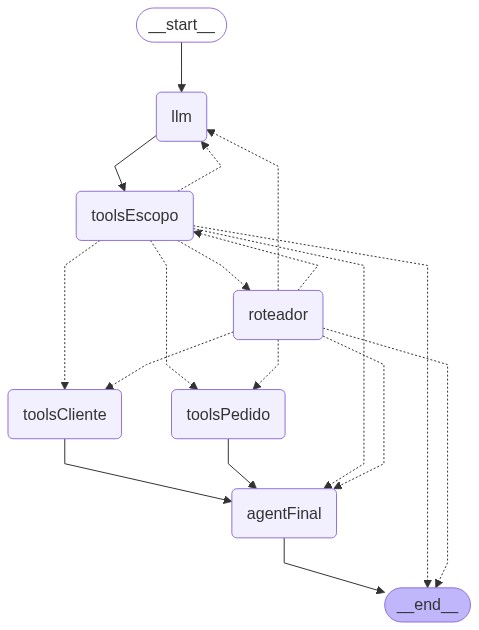
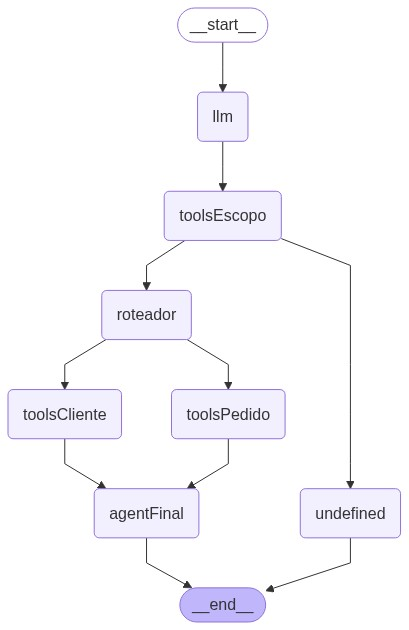
primeiro commit

diff --git a/src/agentEscopo.ts b/src/agentEscopo.ts
@@ -19,9 +19,9 @@ const identificaEscopoTool = tool(
   },
   {
     name: "identifica_escopo",
-    description: "Detecta se o escopo é sobre cliente ou pedido, qual quer coisa diferente disso não é suportado.",
+    description: `Detecta se o escopo é sobre cliente ou pedido, qual quer coisa diferente retorno o escopo como "undefined".`,
     schema: z.object({
-      escopo: z.enum(["pedido", "cliente"]),
+      escopo: z.enum(["pedido", "cliente", "undefined"]).default("undefined"),
     }),
   }
 );
@@ -96,30 +96,41 @@ const buscarClienteTool = tool(
       console.log("\nAGENTE FINAL -->", message);
       return { messages: [new AIMessage(`${lastMessage.content.toString()} `)] };
     })
+    .addNode("undefined", async (state) => {
+      const lastMessage = state.messages[state.messages.length - 1];
+      const message = lastMessage?.content?.toString().toLowerCase();
+      console.log("\nROTEADOR -->", message);
+      console.log("\n undefined -->", message);
+      return { messages: [new AIMessage(`não posso te da um retorno sobre esse assunto`)] };
+    })
 
     .addEdge("__start__", "llm")
     .addEdge("llm", "toolsEscopo")
-    .addConditionalEdges("toolsEscopo", (state) => {
-      const lastMessage = state.messages[state.messages.length - 1];
-      const message = lastMessage?.content?.toString().toLowerCase();
-      let next = "roteador";
-      if (!listaEscopo.find((escopo) => message.toLocaleLowerCase() === escopo.toLocaleLowerCase())) {
-        next = "agentFinal";
-      }
-      console.log("\nTOOLSESCOPO -->", next);
-      return next;
-    })
-
+    .addEdge("toolsEscopo", "roteador")
+    .addEdge("toolsEscopo", "undefined")
+    // .addConditionalEdges("toolsEscopo", (state) => {
+    //   const lastMessage = state.messages[state.messages.length - 1];
+    //   const message = lastMessage?.content?.toString().toLowerCase();
+    //   let next = "roteador";
+    //   if (!listaEscopo.find((escopo) => message.toLocaleLowerCase() === escopo.toLocaleLowerCase())) {
+    //     next = "agentFinal";
+    //   }
+    //   console.log("\nTOOLSESCOPO -->", next);
+    //   return next;
+    // })
+    .addEdge("roteador", "toolsPedido")
+    .addEdge("roteador", "toolsCliente")
     .addEdge("toolsPedido", "agentFinal")
     .addEdge("toolsCliente", "agentFinal")
+    .addEdge("undefined", "__end__")
 
-    .addConditionalEdges("roteador", (state) => {
-      const lastMessage = state.messages[state.messages.length - 1];
-      const message = lastMessage?.content?.toString().toLowerCase();
-      if (message.includes("pedido")) return "toolsPedido";
-      if (message.includes("cliente")) return "toolsCliente";
-      throw new Error("Mensagem não reconhecida pelo roteador");
-    })
+    // .addConditionalEdges("roteador", (state) => {
+    //   const lastMessage = state.messages[state.messages.length - 1];
+    //   const message = lastMessage?.content?.toString().toLowerCase();
+    //   if (message.includes("pedido")) return "toolsPedido";
+    //   if (message.includes("cliente")) return "toolsCliente";
+    //   throw new Error("Mensagem não reconhecida pelo roteador");
+    // })
 
     .addEdge("agentFinal", "__end__")
     .compile();
